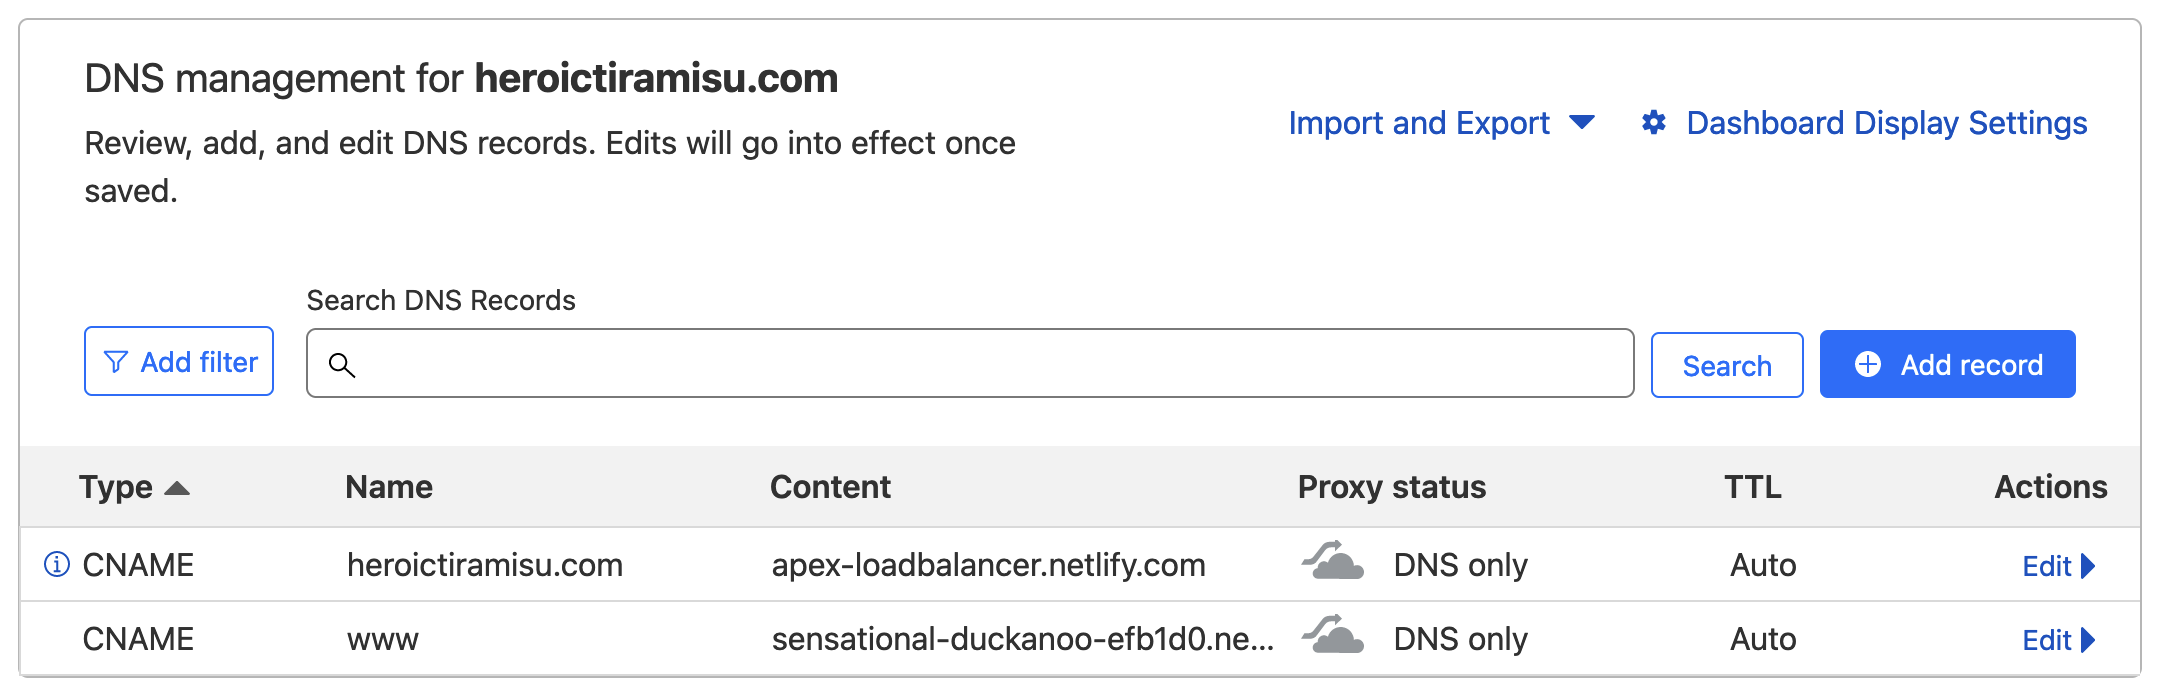
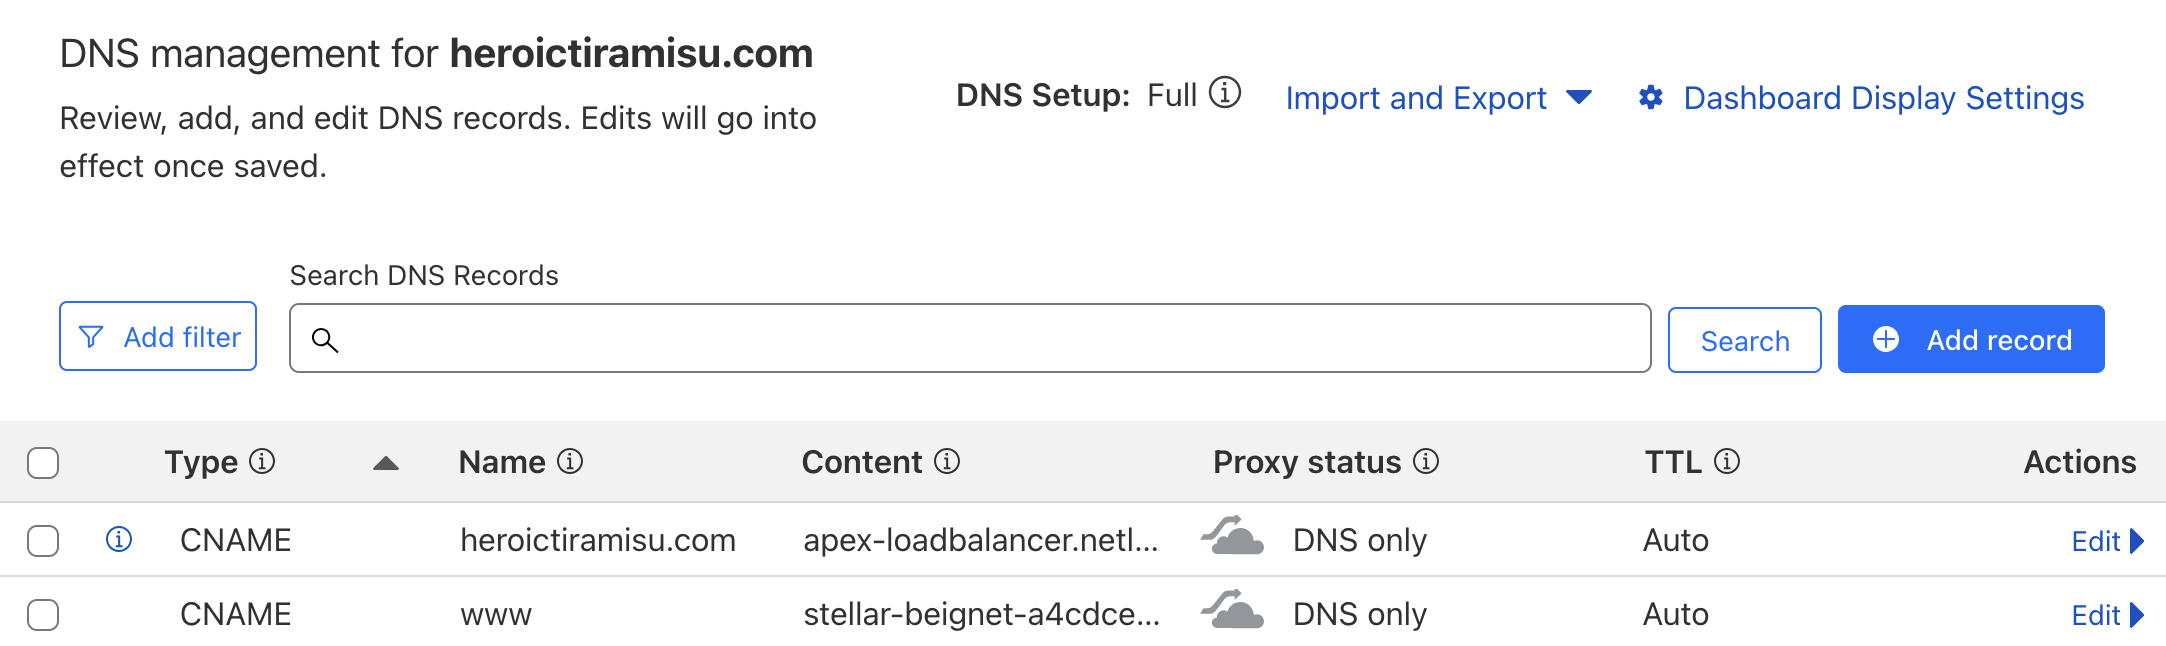
Update screenshots in Chapter 8

diff --git a/content/chapter-8-using-a-custom-domain-name.md b/content/chapter-8-using-a-custom-domain-name.md
@@ -2,7 +2,7 @@
 title: "Using a Custom Domain Name"
 chapter: "Chapter 8"
 description: "Chapter 8 of the Static Site Guide, a book that explains how to build a static website from scratch."
-date: 2025-06-07
+date: 2025-07-20
 previous: 
   name: "Chapter 7"
   link: "/chapter-7-extending-your-hugo-website/"
@@ -79,7 +79,7 @@ Now it's time to connect your domain name to your website.
 
 We need to tell Netlify about our domain name so we can connect it to our website. 
 
-Log in to Netlify, then click the **Domain management** link. The domain settings are in the **Production domains** section, as shown below. Click the **Add a Domain** button.
+Log in to Netlify, select your project, and click **Domain management**. The domain settings are in the **Production domains** section, as shown below. Click the **Add a Domain** button.
 
 ![Accessing the domain settings in Netlify](/images/figures/figure-18.png)
 
@@ -99,7 +99,7 @@ We'll add the DNS records in the Cloudflare interface, but first, we need to get
 
 ![Finding the DNS target information in Netlify](/images/figures/figure-20.png)
 
-After you click an **Awaiting External DNS** link, you'll see the window shown below. I clicked the link for `www.heroictiramisu.com`. The `sensational-duckanoo-efb1d0.netlify.app` bit is the target—that's the information we need to create the DNS record in the Cloudflare interface. 
+After you click an **Awaiting External DNS** link, you'll see the window shown below. I clicked the link for `www.heroictiramisu.com`. The `stellar-beignet-a4cdce.netlify.app` bit is the target—that's the information we need to create the DNS record in the Cloudflare interface. 
 
 ![Copying the DNS target information from the Netlify interface](/images/figures/figure-21.png)
 
@@ -109,7 +109,7 @@ Now that we have the target information, we can create the DNS record. In the Cl
 
 We'll fill out the fields for the DNS record as shown below. 
 
-The type of DNS record we're adding is called a *CNAME record*, so select `CNAME` from the **Type** menu. Type `www` in the **Name** field, and enter whatever target you copied from the Netlify interface in the **Target** field (in this case, it's `sensational-duckanoo-efb1d0.netlify.app`). Be sure to turn off the **Proxy status** setting so it's set to DNS only.
+The type of DNS record we're adding is called a *CNAME record*, so select `CNAME` from the **Type** menu. Type `www` in the **Name** field, and enter whatever target you copied from the Netlify interface in the **Target** field (in this case, it's `stellar-beignet-a4cdce.netlify.app`). Be sure to turn off the **Proxy status** setting so it's set to DNS only.
 
 {{< aside type="tip" >}}
 Leaving the Proxy status setting enabled can cause problems that are difficult to troubleshoot. When that setting is enabled, Cloudflare will *cache* our website. The problem is that Netlify already caches our website, so we'll end up with two different cached versions of our website!

diff --git a/content/chapter-2-publishing-your-web-page.md b/content/chapter-2-publishing-your-web-page.md
@@ -2,7 +2,7 @@
 title: "Publishing Your Web Page"
 chapter: "Chapter 2"
 description: "Chapter 2 of the Static Site Guide, a book that explains how to build a static website from scratch."
-date: 2024-07-04
+date: 2025-07-20
 previous: 
   name: "Chapter 1"
   link: "/chapter-1-making-your-first-web-page/"
@@ -45,11 +45,11 @@ That's it! Believe it or not, your web page is now publicly available on the int
 
 ## Visiting Your Web Page
 
-Netlify generated a random, unique domain name for our website: `https://sensational-duckanoo-efb1d0.netlify.app`. If you're following these instructions, Netlify generated a domain name for you, too. Go ahead and open the domain name Netlify generated for you. After you enter the password, you should see your website, as shown below.
+Netlify generated a random, unique domain name for my website: `https://sensational-duckanoo-efb1d0.netlify.app`. If you're following these instructions, Netlify generated a domain name for you, too. Go ahead and open the domain name Netlify generated for you. After you enter the password, you should see your website, as shown below.
 
 ![Our example website, hosted by Netlify](/images/figures/figure-7.png)
 
-Notice the URL in the address bar of the web browser—that's the domain name for our website hosted on Netlify's servers. We could give this to anyone on the planet and they could access our website! 
+Notice the URL in the address bar of the web browser—that's the domain name for the website hosted on Netlify's servers. We could give this to anyone on the planet and they could access our website! 
 
 ## Creating a Netlify Account
 
